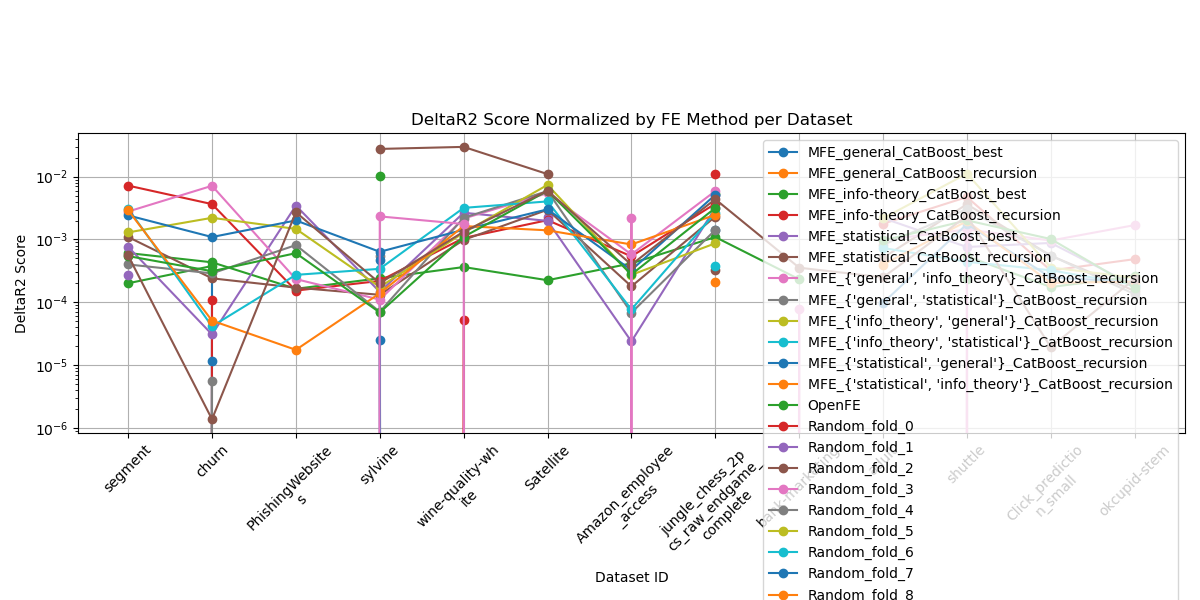
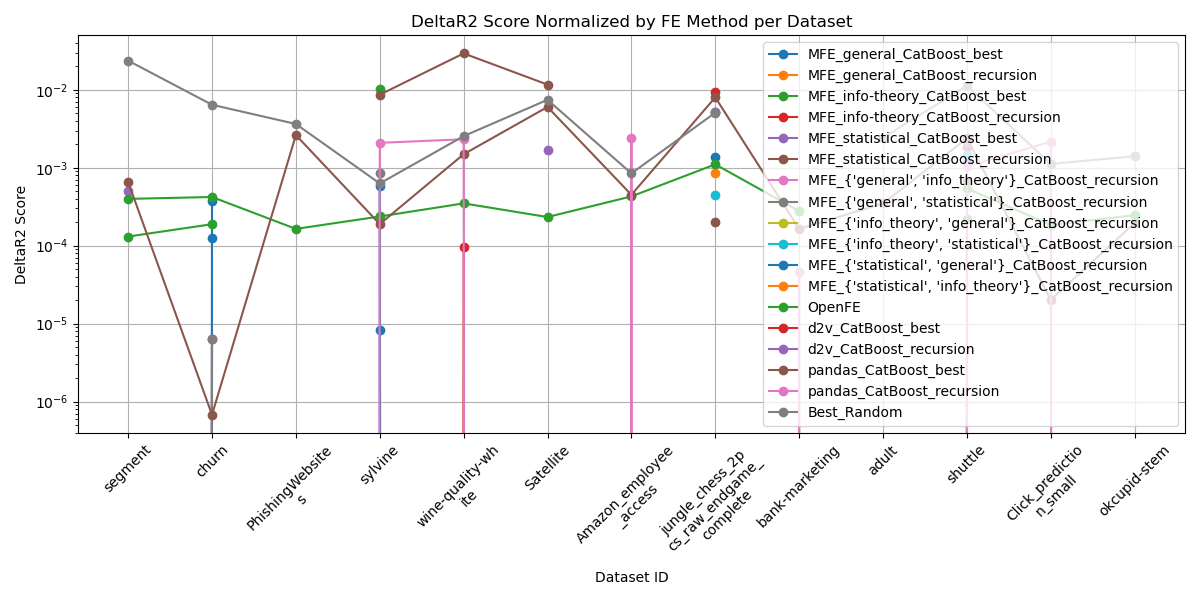
Update incremental validation analysis

diff --git a/src/Result_Analysis/statistical_analysis/statistical_analysis.py b/src/Result_Analysis/statistical_analysis/statistical_analysis.py
@@ -130,9 +130,7 @@ def statistical_analysis():
     data_files.sort()
     columns = ["Dataset", "Method", "DeltaR2", "Count_Suppressor_Candidates", "Number_of_Features", "DeltaR2_Normalized"]
     delta_r2_df = pd.DataFrame(columns=columns)
-    delta_r2_normalized_df = pd.DataFrame(columns=columns)
     delta_r2_non_suppressor_df = pd.DataFrame(columns=columns)
-    delta_r2_non_suppressor_normalized_df = pd.DataFrame(columns=columns)
     try:
         delta_r2_df = pd.read_parquet("delta_r2.parquet")
     except FileNotFoundError:
@@ -185,12 +183,15 @@ def statistical_analysis():
             delta_r2_non_suppressor_df.to_parquet("delta_r2_non_suppressor.parquet")
 
     df_pivot = delta_r2_df.pivot(index="Dataset", columns="Method", values="DeltaR2")
+    random_cols = [col for col in df_pivot.columns if col.startswith("Random_fold_")]
+    df_pivot["Best_Random"] = df_pivot[random_cols].max(axis=1)
+    df_pivot = df_pivot.drop(random_cols, axis=1)
     df_pivot_normalized = delta_r2_df.pivot(index="Dataset", columns="Method", values="DeltaR2_Normalized")
-    df_pivot_non_suppressor = delta_r2_non_suppressor_df.pivot(index="Dataset", columns="Method", values="Count_Suppressor_Candidates")
+    df_pivot_normalized["Best_Random"] = df_pivot_normalized[random_cols].max(axis=1)
+    df_pivot_normalized = df_pivot_normalized.drop(random_cols, axis=1)
 
     df_pivot = df_pivot.sort_index()
     df_pivot_normalized = df_pivot_normalized.sort_index()
-    df_pivot_non_suppressor = df_pivot_non_suppressor.sort_index()
 
     datasets = df_pivot.index.astype(str)
     dataset_list = []
@@ -209,8 +210,31 @@ def statistical_analysis():
     plot_delta_r2_graph(dataset_list_wrapped, df_pivot, "")
     plot_delta_r2_graph(dataset_list_wrapped, df_pivot_normalized, "Normalized")
 
-    df_pivot_pandas = df_pivot[["pandas_CatBoost_best", "pandas_CatBoost_recursion", "OpenFE"]]
-    df_pivot_normalized_pandas = df_pivot_normalized[["pandas_CatBoost_best", "pandas_CatBoost_recursion", "OpenFE"]]
+    random_cols = [col for col in df_pivot.columns if col.startswith("MFE_")]
+    df_pivot["Best_MFE"] = df_pivot[random_cols].max(axis=1)
+    df_pivot = df_pivot.drop(random_cols, axis=1)
+    random_cols = [col for col in df_pivot.columns if col.startswith("pandas_")]
+    df_pivot["Best_Pandas"] = df_pivot[random_cols].max(axis=1)
+    df_pivot = df_pivot.drop(random_cols, axis=1)
+    random_cols = [col for col in df_pivot.columns if col.startswith("d2v_")]
+    df_pivot["Best_d2v"] = df_pivot[random_cols].max(axis=1)
+    df_pivot = df_pivot.drop(random_cols, axis=1)
+    random_cols = [col for col in df_pivot_normalized.columns if col.startswith("MFE_")]
+    df_pivot_normalized["Best_MFE"] = df_pivot_normalized[random_cols].max(axis=1)
+    df_pivot_normalized = df_pivot_normalized.drop(random_cols, axis=1)
+    random_cols = [col for col in df_pivot_normalized.columns if col.startswith("pandas_")]
+    df_pivot_normalized["Best_Pandas"] = df_pivot_normalized[random_cols].max(axis=1)
+    df_pivot_normalized = df_pivot_normalized.drop(random_cols, axis=1)
+    random_cols = [col for col in df_pivot_normalized.columns if col.startswith("d2v_")]
+    df_pivot_normalized["Best_d2v"] = df_pivot_normalized[random_cols].max(axis=1)
+    df_pivot_normalized = df_pivot_normalized.drop(random_cols, axis=1)
+
+
+    plot_delta_r2_graph(dataset_list_wrapped, df_pivot, "best")
+    plot_delta_r2_graph(dataset_list_wrapped, df_pivot_normalized, "best Normalized")
+
+    df_pivot_pandas = df_pivot[["pandas_CatBoost_best", "pandas_CatBoost_recursion", "OpenFE", "Best_Random"]]
+    df_pivot_normalized_pandas = df_pivot_normalized[["pandas_CatBoost_best", "pandas_CatBoost_recursion", "OpenFE", "Best_Random"]]
 
     plot_delta_r2_graph(dataset_list_wrapped, df_pivot_pandas, "Pandas and OpenFE")
     plot_delta_r2_graph(dataset_list_wrapped, df_pivot_normalized_pandas, "Normalized Pandas and OpenFE")
